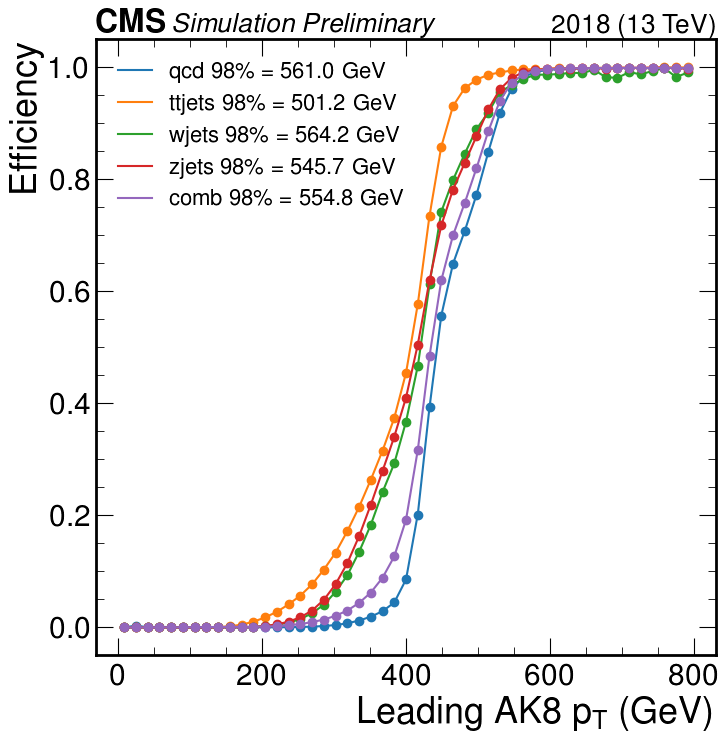
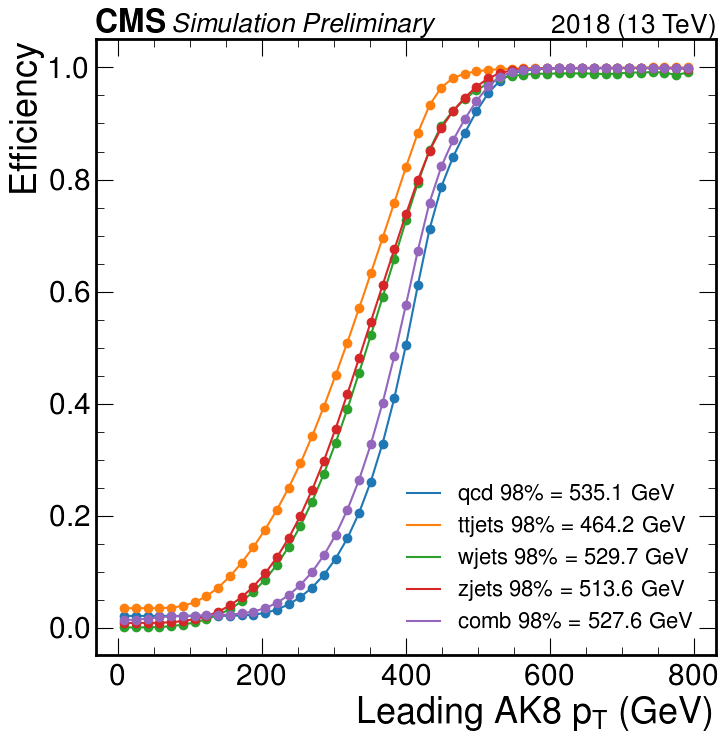
fixed the forgotten cumsum, added plotting script for signal

Changed region(s): [[0.1511, 0.0621, 0.8764, 0.8691], [0.6346, 0.6518, 0.9368, 0.8691], [0.9066, 0.0931, 0.9368, 0.1242]]

diff --git a/bkg/build_histogram.py b/bkg/build_histogram.py
@@ -1,4 +1,5 @@
-import os, os.path as osp, multiprocessing as mp, json, argparse, itertools, traceback, re
+import os, os.path as osp, multiprocessing as mp, json, argparse, itertools, traceback, re, sys
+from time import strftime
 
 import tqdm
 import numpy as np
@@ -6,6 +7,8 @@ import seutils
 seutils.MAX_RECURSION_DEPTH = 1000
 
 import svj_ntuple_processing as svj
+sys.path.append(osp.dirname(osp.dirname(osp.abspath(__file__))))
+import trigger as trig
 
 
 class Histogram:
@@ -112,8 +115,8 @@ def worker(tup):
 
     try:
         cols = svj.Columns.load(npzfile)
-        passes_incl_met = filter_triggers(cols, True)
-        passes_no_met = filter_triggers(cols, False)
+        passes_incl_met = trig.filter_triggers(cols, True)
+        passes_no_met = trig.filter_triggers(cols, False)
         bkg = cols.metadata['bkg']
         
         with lock:
@@ -136,12 +139,6 @@ def worker(tup):
         svj.logger.error(f'Problem processing {npzfile}:\n{traceback.format_exc()}\n{cols.metadata}')
         raise
 
-def filter_triggers(cols, incl_met=True):
-    triggers = svj.triggers_2018
-    if not incl_met: triggers = [t for t in triggers if 'MET' not in t]
-    indices = np.array([cols.metadata['trigger_titles'].index(t) for t in triggers])
-    return np.any(cols.arrays['triggers'][:,indices], axis=-1)
-
 
 def main():
     parser = argparse.ArgumentParser()
@@ -150,32 +147,23 @@ def main():
 
     npzfiles = list(itertools.chain(*(get_npzfiles(pat) for pat in args.npzfiles)))
 
-    # HACK:
+    # Filter out QCD with pt<170
     pt_left = lambda f: int(re.search(r'Pt_(\d+)to', f).group(1))
-    npzfiles = [f for f in npzfiles if ('QCD' in f and pt_left(f) >= 170)]
+    npzfiles = [f for f in npzfiles if ('QCD' not in f or pt_left(f) >= 170)]
 
-    histograms_file = 'histograms_qcd170.json'
+    histograms_file = strftime('histograms_%b%d.json')
     variables = ['pt', 'ht', 'met', 'pt_subl']
     bkgs = ['qcd', 'ttjets', 'wjets', 'zjets']
 
     if not osp.isfile(histograms_file):
         histograms = HistogramCollection()
     
-        # Define binning per variable
-        binning = dict(
-            pt = np.linspace(0., 800., 50),
-            pt_subl = np.linspace(0., 800., 50),
-            ht = np.linspace(0., 1400., 60),
-            met = np.linspace(0., 700., 50),
-            )
-        # for v in binning.values(): v[-1] = np.inf # Last bin is overflow bin
-
         # Define the histograms
         for v in variables:
             for b in bkgs:
-                histograms.hists[v+'_'+b+'_notrig'] = Histogram(binning[v])
-                histograms.hists[v+'_'+b+'_inclmettrig'] = Histogram(binning[v])
-                histograms.hists[v+'_'+b+'_nomettrig'] = Histogram(binning[v])
+                histograms.hists[v+'_'+b+'_notrig'] = Histogram(trig.binning[v])
+                histograms.hists[v+'_'+b+'_inclmettrig'] = Histogram(trig.binning[v])
+                histograms.hists[v+'_'+b+'_nomettrig'] = Histogram(trig.binning[v])
 
         # Save empty histograms to a file
         histograms.save(histograms_file)

diff --git a/bkg/trigeff_bkg.py b/bkg/trigeff_bkg.py
@@ -50,7 +50,9 @@ def main():
 
         h_notrig = collection.hists[args.var+'_'+bkg+'_notrig']
 
-        eff = h.counts / h_notrig.counts
+        
+        revcumsum = lambda x: np.cumsum(x[::-1])[::-1]
+        eff = revcumsum(h.counts) / revcumsum(h_notrig.counts)
         bin_centers = .5*(h_notrig.binning[:-1] + h_notrig.binning[1:])
 
         line = ax.plot(bin_centers, eff, 'o')[0]
@@ -64,7 +66,7 @@ def main():
             # should be suitable for poly1d
             y_tr = inv_sigmoid(eff)
             # High degree polynomial to capture the curve in detail
-            res = np.polyfit(bin_centers, y_tr, 20)
+            res = np.polyfit(bin_centers, y_tr, 15)
             fit = np.poly1d(res)
             x_fine = np.linspace(h_notrig.binning[1], h_notrig.binning[-1], 100)
             ax.plot(x_fine, sigmoid(fit(x_fine)), '-', color=line.get_color(), label='fit')
@@ -80,37 +82,11 @@ def main():
                 )
 
     ax.legend(fontsize=16)
-
-    ax.text(
-        .0, 1.0,
-        r'\textbf{CMS}\,\fontsize{19pt}{3em}\selectfont{}{\textit{Simulation Preliminary}}',
-        horizontalalignment='left',
-        verticalalignment='bottom',
-        transform=ax.transAxes,
-        usetex=True,
-        fontsize=23
-        )
-    ax.text(
-        1.0, 1.0,
-        r'2018 (13 TeV)',
-        horizontalalignment='right',
-        verticalalignment='bottom',
-        transform=ax.transAxes,
-        usetex=True,
-        fontsize=19
-        )
-
-    var_title = {
-        'pt' : 'Leading AK8 $\mathrm{p}_\mathrm{T}$ (GeV)',
-        'pt_subl' : 'Subleading AK8 $\mathrm{p}_\mathrm{T}$ (GeV)',
-        'ht' : 'HT (GeV)',
-        'met' : 'MET (GeV)',
-        }[args.var]
-
-    ax.set_xlabel(var_title)
+    trig.put_on_cmslabel(ax)
+    ax.set_xlabel(trig.var_titles[args.var])
     ax.set_ylabel('Efficiency')
 
-    outfile = 'bkgeff.png'
+    outfile = 'sigeff.png'
     plt.savefig(outfile, bbox_inches='tight')
     os.system(f'imgcat {outfile}')
 

diff --git a/plot_trigeff.py b/plot_trigeff.py
@@ -1,0 +1,65 @@
+import os, os.path as osp, json, argparse, sys, fnmatch, json
+import numpy as np
+
+import matplotlib.pyplot as plt
+
+import svj_ntuple_processing as svj
+
+import trigger as trig
+
+
+
+def main():
+    parser = argparse.ArgumentParser()
+    parser.add_argument('npzfiles', type=str, nargs='+')
+    parser.add_argument('--var', type=str, default='pt', choices=['pt', 'pt_subl', 'ht', 'met'])
+    parser.add_argument('--nomet', action='store_true')
+    args = parser.parse_args()
+
+    fig = plt.figure(figsize=(8,8))
+    ax = fig.gca()
+
+    # binning = trig.binning[args.var]
+    binning = np.linspace(0., 630., 30)
+
+    bin_centers = .5*(binning[1:] + binning[:-1])
+
+    for col in [ svj.Columns.load(f) for f in args.npzfiles ]:
+        passes = trig.filter_triggers(col, not(args.nomet))
+
+        vals = col.arrays[args.var]
+
+        revcumsum = lambda x: np.cumsum(x[::-1])[::-1]
+        h_notrig = revcumsum(np.histogram(vals, binning)[0])
+        h_trig = revcumsum(np.histogram(vals[passes], binning)[0])
+
+        
+
+        eff = np.where(h_notrig!=0., h_trig/h_notrig, 0.)
+
+        meta = col.metadata
+        label = f"mz{meta['mz']}, rinv{meta['rinv']}"
+        line = ax.plot(bin_centers, eff, 'o')[0]
+
+        try:
+            interpolation = trig.Interpolation(bin_centers, eff)
+            print(f'Eff for {label} at 500 GeV: {interpolation(500.)}')
+            ax.plot(
+                *interpolation.fine(), c=line.get_color(),
+                label=f'{label} 98\% = {interpolation.solve(.98):.1f} GeV'
+                )
+        except Exception:
+            svj.logger.error(f'Interpolation failed for {label}')
+
+    ax.legend(fontsize=16)
+    trig.put_on_cmslabel(ax)
+    ax.set_xlabel(trig.var_titles[args.var])
+    ax.set_ylabel('Efficiency')
+
+    outfile = 'sigeff.png'
+    plt.savefig(outfile, bbox_inches='tight')
+    os.system(f'imgcat {outfile}')
+
+
+if __name__ == '__main__':
+    main()

diff --git a/trigger.py b/trigger.py
@@ -126,3 +126,45 @@ class Interpolation:
         x = np.linspace(self.x[0], self.x[-1], n)
         return x, self(x)
 
+
+def filter_triggers(cols, incl_met=True):
+    triggers = svj.triggers_2018
+    if not incl_met: triggers = [t for t in triggers if 'MET' not in t]
+    indices = np.array([cols.metadata['trigger_titles'].index(t) for t in triggers])
+    return np.any(cols.arrays['triggers'][:,indices], axis=-1)
+
+
+def put_on_cmslabel(ax):
+    ax.text(
+        .0, 1.0,
+        r'\textbf{CMS}\,\fontsize{19pt}{3em}\selectfont{}{\textit{Simulation Preliminary}}',
+        horizontalalignment='left',
+        verticalalignment='bottom',
+        transform=ax.transAxes,
+        usetex=True,
+        fontsize=23
+        )
+    ax.text(
+        1.0, 1.0,
+        r'2018 (13 TeV)',
+        horizontalalignment='right',
+        verticalalignment='bottom',
+        transform=ax.transAxes,
+        usetex=True,
+        fontsize=19
+        )
+
+var_titles = {
+    'pt' : 'Leading AK8 $\mathrm{p}_\mathrm{T}$ (GeV)',
+    'pt_subl' : 'Subleading AK8 $\mathrm{p}_\mathrm{T}$ (GeV)',
+    'ht' : 'HT (GeV)',
+    'met' : 'MET (GeV)',
+    }
+
+# Define binning per variable
+binning = dict(
+    pt = np.linspace(0., 800., 50),
+    pt_subl = np.linspace(0., 800., 50),
+    ht = np.linspace(0., 1400., 60),
+    met = np.linspace(0., 700., 50),
+    )

diff --git a/bkg/README.md b/bkg/README.md
@@ -1,4 +1,6 @@
-## Producing the trigger study columns for background
+# Trigger study of the background
+
+## Producing the trigger study columns
 
 Processing the entire background requires using jobs.
 
@@ -21,7 +23,7 @@ This creates small .npz files for every background .root TreeMaker file at the s
 
 ## Build histogram from all .npz files
 
-Use (modify the stageout directory):
+Use (modify the stageout directory to whatever you used for the jobs):
 
 ```bash
 python build_histogram.py root://cmseos.fnal.gov//store/user/lpcdarkqcd/triggerstudy/bkg_Dec08/TRIGCOL/Summer20UL18/*/*.npz
